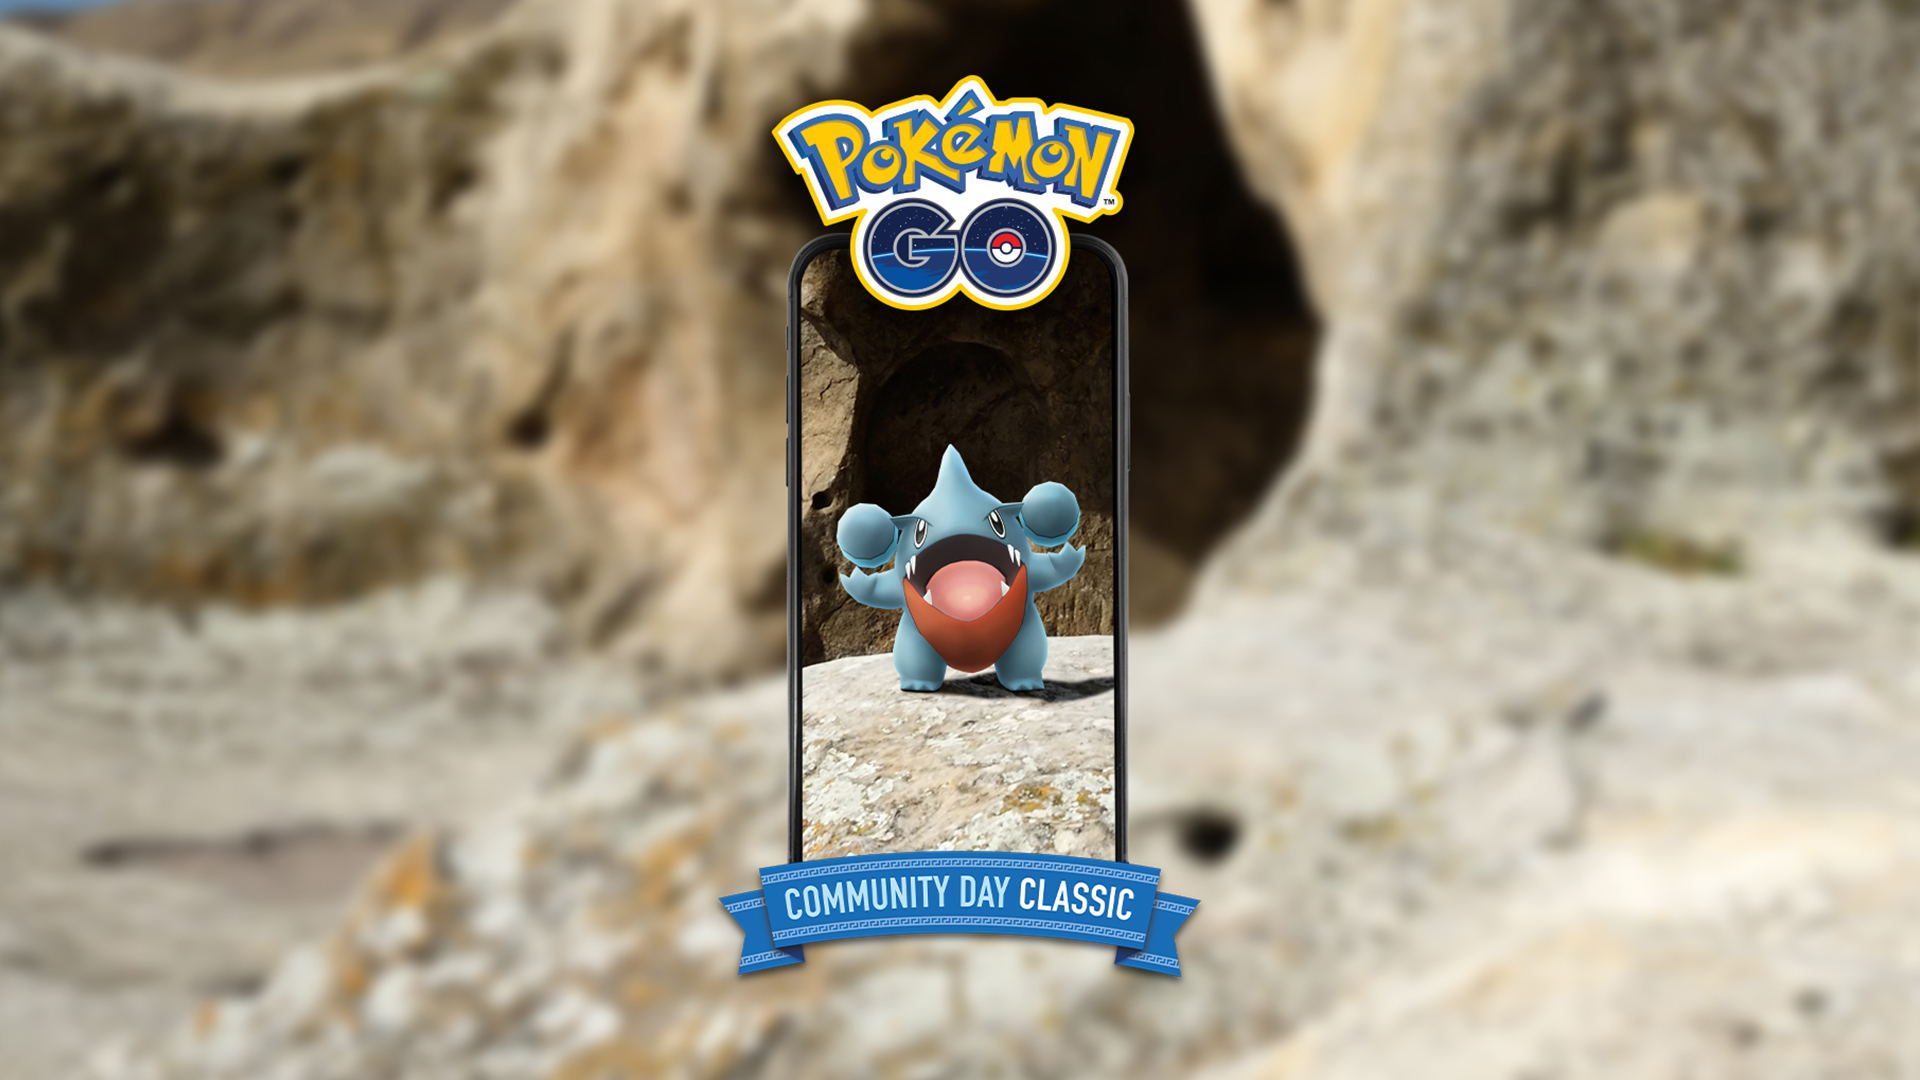
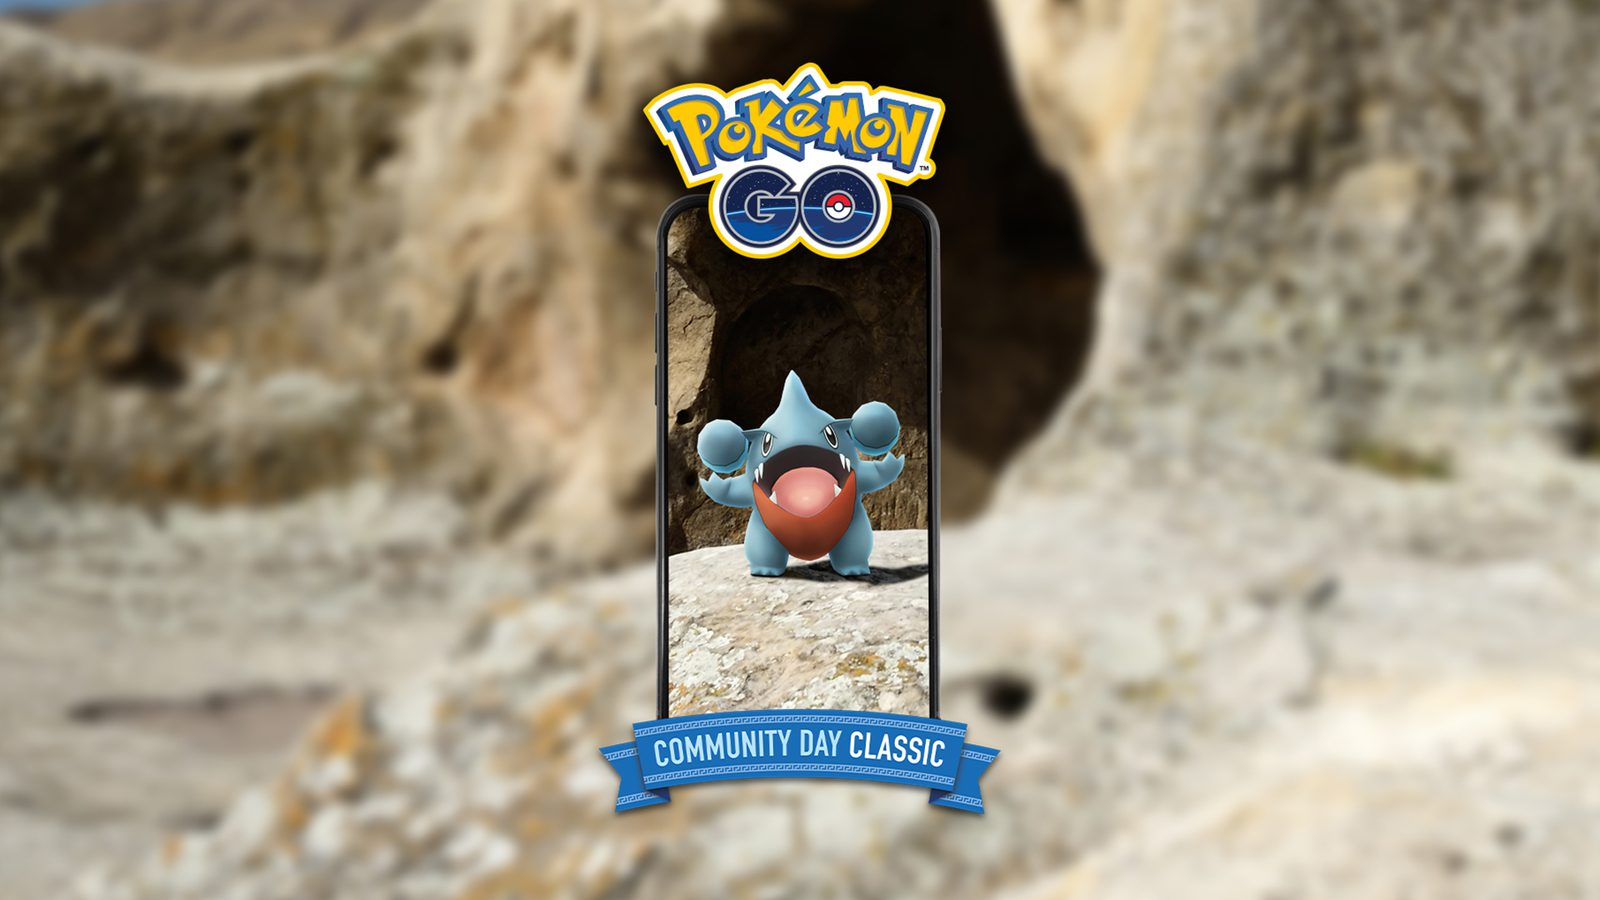
社群日：加入全站導覽連結、事件頁登入狀態；壓縮 9 月橫幅圖(724KB→136KB)

diff --git a/events/index.html b/events/index.html
@@ -14,6 +14,7 @@
 <link rel="icon" type="image/png" sizes="192x192" href="../img/masterball.png">
 <script async src="https://pagead2.googlesyndication.com/pagead/js/adsbygoogle.js?client=ca-pub-8866689605007086" crossorigin="anonymous"></script>
 <script src="../js/analytics.js"></script>
+<script src="../config.js"></script>
 <link rel="stylesheet" href="../css/main.css">
 <link rel="stylesheet" href="../css/community-day.css">
 </head>
@@ -140,6 +141,7 @@ window.CD_LIST = [
   var yr=document.getElementById('copyright-year'); if(yr) yr.textContent=new Date().getFullYear();
 })();
 </script>
+<script type="module">import { initUserAuth } from '../js/user-data.js'; initUserAuth();</script>
 <script src="../js/site-nav.js" defer></script>
 </body>
 </html>

diff --git a/events/26-9-communityday/index.html b/events/26-9-communityday/index.html
@@ -14,6 +14,7 @@
 <link rel="icon" type="image/png" sizes="192x192" href="../../img/masterball.png">
 <script async src="https://pagead2.googlesyndication.com/pagead/js/adsbygoogle.js?client=ca-pub-8866689605007086" crossorigin="anonymous"></script>
 <script src="../../js/analytics.js"></script>
+<script src="../../config.js"></script>
 <link rel="stylesheet" href="../../css/main.css">
 <link rel="stylesheet" href="../../css/community-day.css">
 </head>
@@ -330,6 +331,7 @@ window.CD_EVENT = {
 };
 </script>
 <script src="../../js/community-day.js" defer></script>
+<script type="module">import { initUserAuth } from '../../js/user-data.js'; initUserAuth();</script>
 <script src="../../js/site-nav.js" defer></script>
 </body>
 </html>

diff --git a/eggs/index.html b/eggs/index.html
@@ -68,6 +68,7 @@
                 </div>
                 <div class="mega-col">
                     <div class="mega-heading">遊戲資訊</div>
+                    <a class="tab-button" href="../events/">社群日整理</a>
                     <a class="tab-button" href="../raids/">團體戰列表</a>
                     <a class="tab-button active" href="../eggs/">孵蛋列表</a>
                     <a class="tab-button" href="../research/">田野調查任務</a>

diff --git a/raids/index.html b/raids/index.html
@@ -68,6 +68,7 @@
                 </div>
                 <div class="mega-col">
                     <div class="mega-heading">遊戲資訊</div>
+                    <a class="tab-button" href="../events/">社群日整理</a>
                     <a class="tab-button active" href="../raids/">團體戰列表</a>
                     <a class="tab-button" href="../eggs/">孵蛋列表</a>
                     <a class="tab-button" href="../research/">田野調查任務</a>

diff --git a/research/index.html b/research/index.html
@@ -68,6 +68,7 @@
                 </div>
                 <div class="mega-col">
                     <div class="mega-heading">遊戲資訊</div>
+                    <a class="tab-button" href="../events/">社群日整理</a>
                     <a class="tab-button" href="../raids/">團體戰列表</a>
                     <a class="tab-button" href="../eggs/">孵蛋列表</a>
                     <a class="tab-button active" href="../research/">田野調查任務</a>

diff --git a/id-selector/index.html b/id-selector/index.html
@@ -68,6 +68,7 @@
                 </div>
                 <div class="mega-col">
                     <div class="mega-heading">遊戲資訊</div>
+                    <a class="tab-button" href="../events/">社群日整理</a>
                     <a class="tab-button" href="../raids/">團體戰列表</a>
                     <a class="tab-button" href="../eggs/">孵蛋列表</a>
                     <a class="tab-button" href="../research/">田野調查任務</a>

diff --git a/pvp-ranker/index.html b/pvp-ranker/index.html
@@ -68,6 +68,7 @@
                 </div>
                 <div class="mega-col">
                     <div class="mega-heading">遊戲資訊</div>
+                    <a class="tab-button" href="../events/">社群日整理</a>
                     <a class="tab-button" href="../raids/">團體戰列表</a>
                     <a class="tab-button" href="../eggs/">孵蛋列表</a>
                     <a class="tab-button" href="../research/">田野調查任務</a>

diff --git a/search-filters/index.html b/search-filters/index.html
@@ -69,6 +69,7 @@
                 </div>
                 <div class="mega-col">
                     <div class="mega-heading">遊戲資訊</div>
+                    <a class="tab-button" href="../events/">社群日整理</a>
                     <a class="tab-button" href="../raids/">團體戰列表</a>
                     <a class="tab-button" href="../eggs/">孵蛋列表</a>
                     <a class="tab-button" href="../research/">田野調查任務</a>

diff --git a/special-research/index.html b/special-research/index.html
@@ -68,6 +68,7 @@
                 </div>
                 <div class="mega-col">
                     <div class="mega-heading">遊戲資訊</div>
+                    <a class="tab-button" href="../events/">社群日整理</a>
                     <a class="tab-button" href="../raids/">團體戰列表</a>
                     <a class="tab-button" href="../eggs/">孵蛋列表</a>
                     <a class="tab-button" href="../research/">田野調查任務</a>

diff --git a/index.html b/index.html
@@ -256,6 +256,7 @@
                 </div>
                 <div class="mega-col">
                     <div class="mega-heading">遊戲資訊</div>
+                    <a class="tab-button" href="events/">社群日整理</a>
                     <a class="tab-button" href="raids/">團體戰列表</a>
                     <a class="tab-button" href="eggs/">孵蛋列表</a>
                     <a class="tab-button" href="research/">田野調查任務</a>
